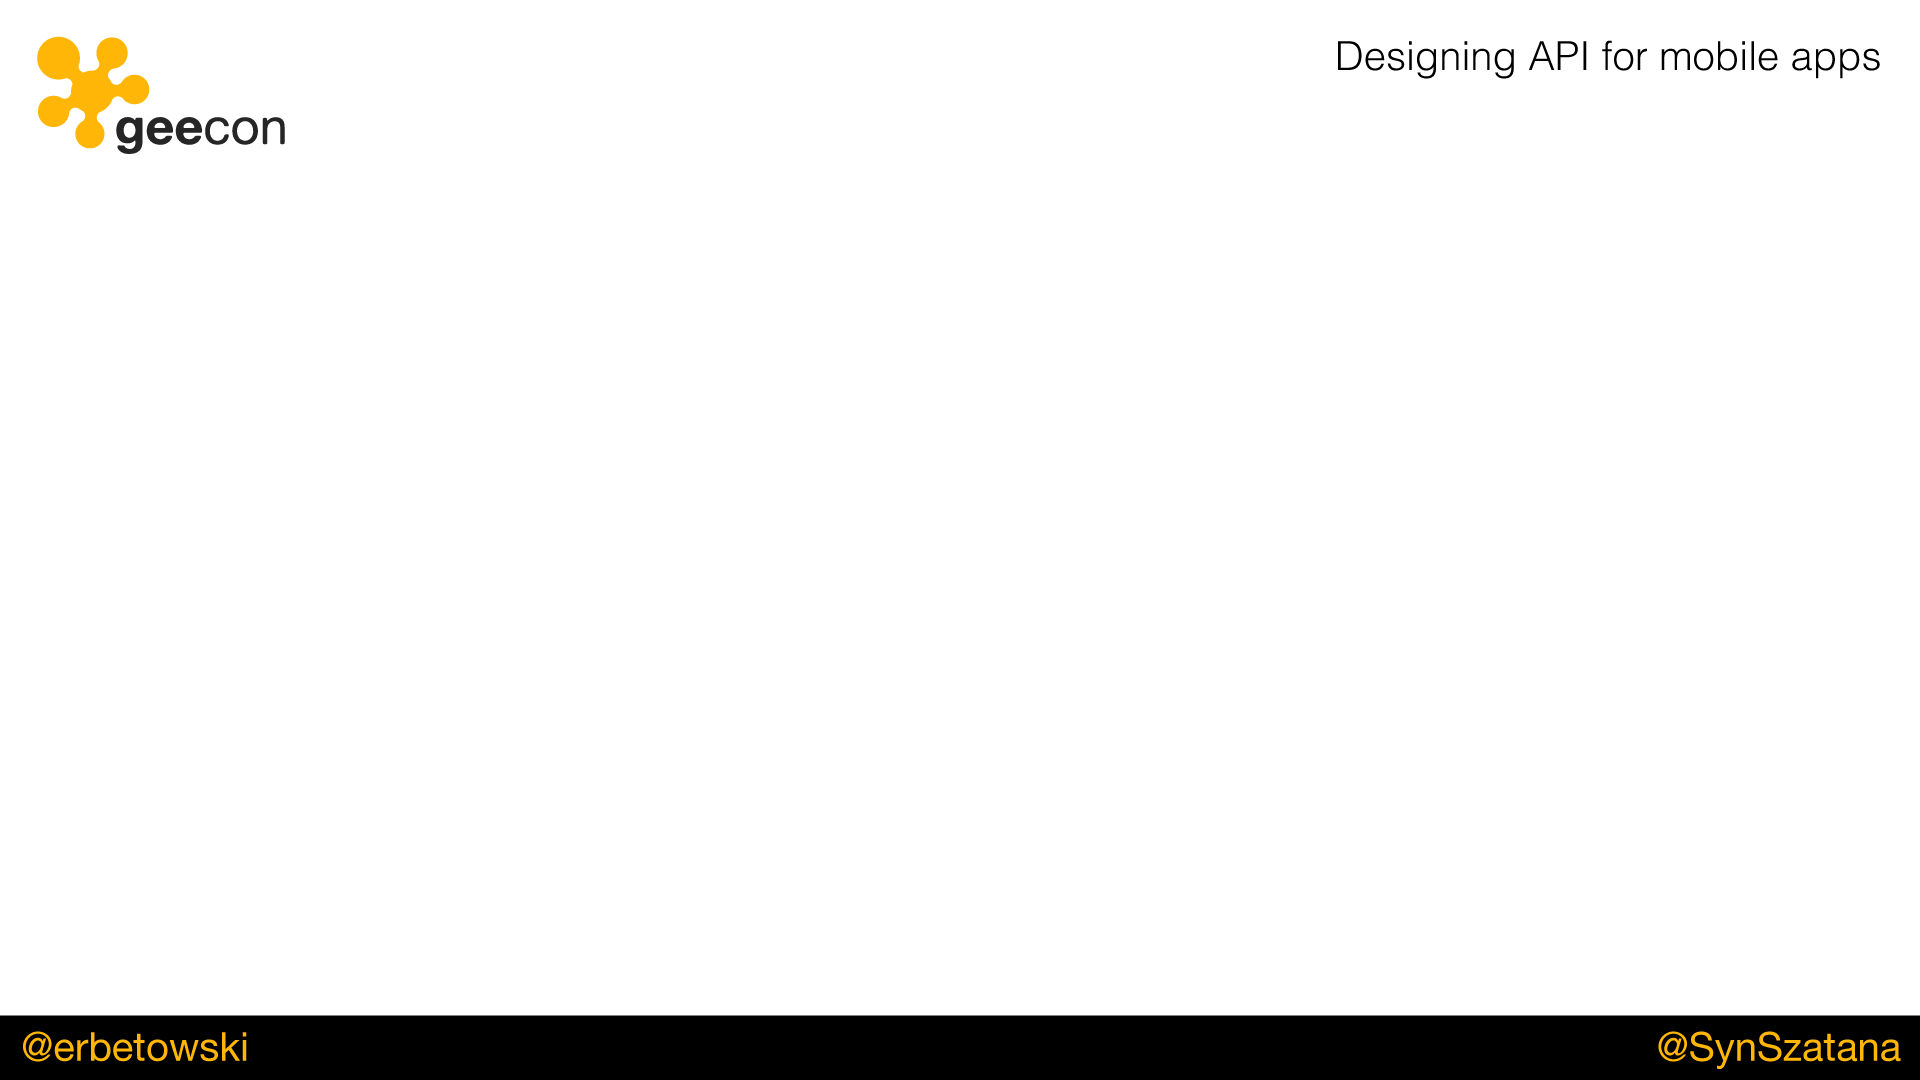
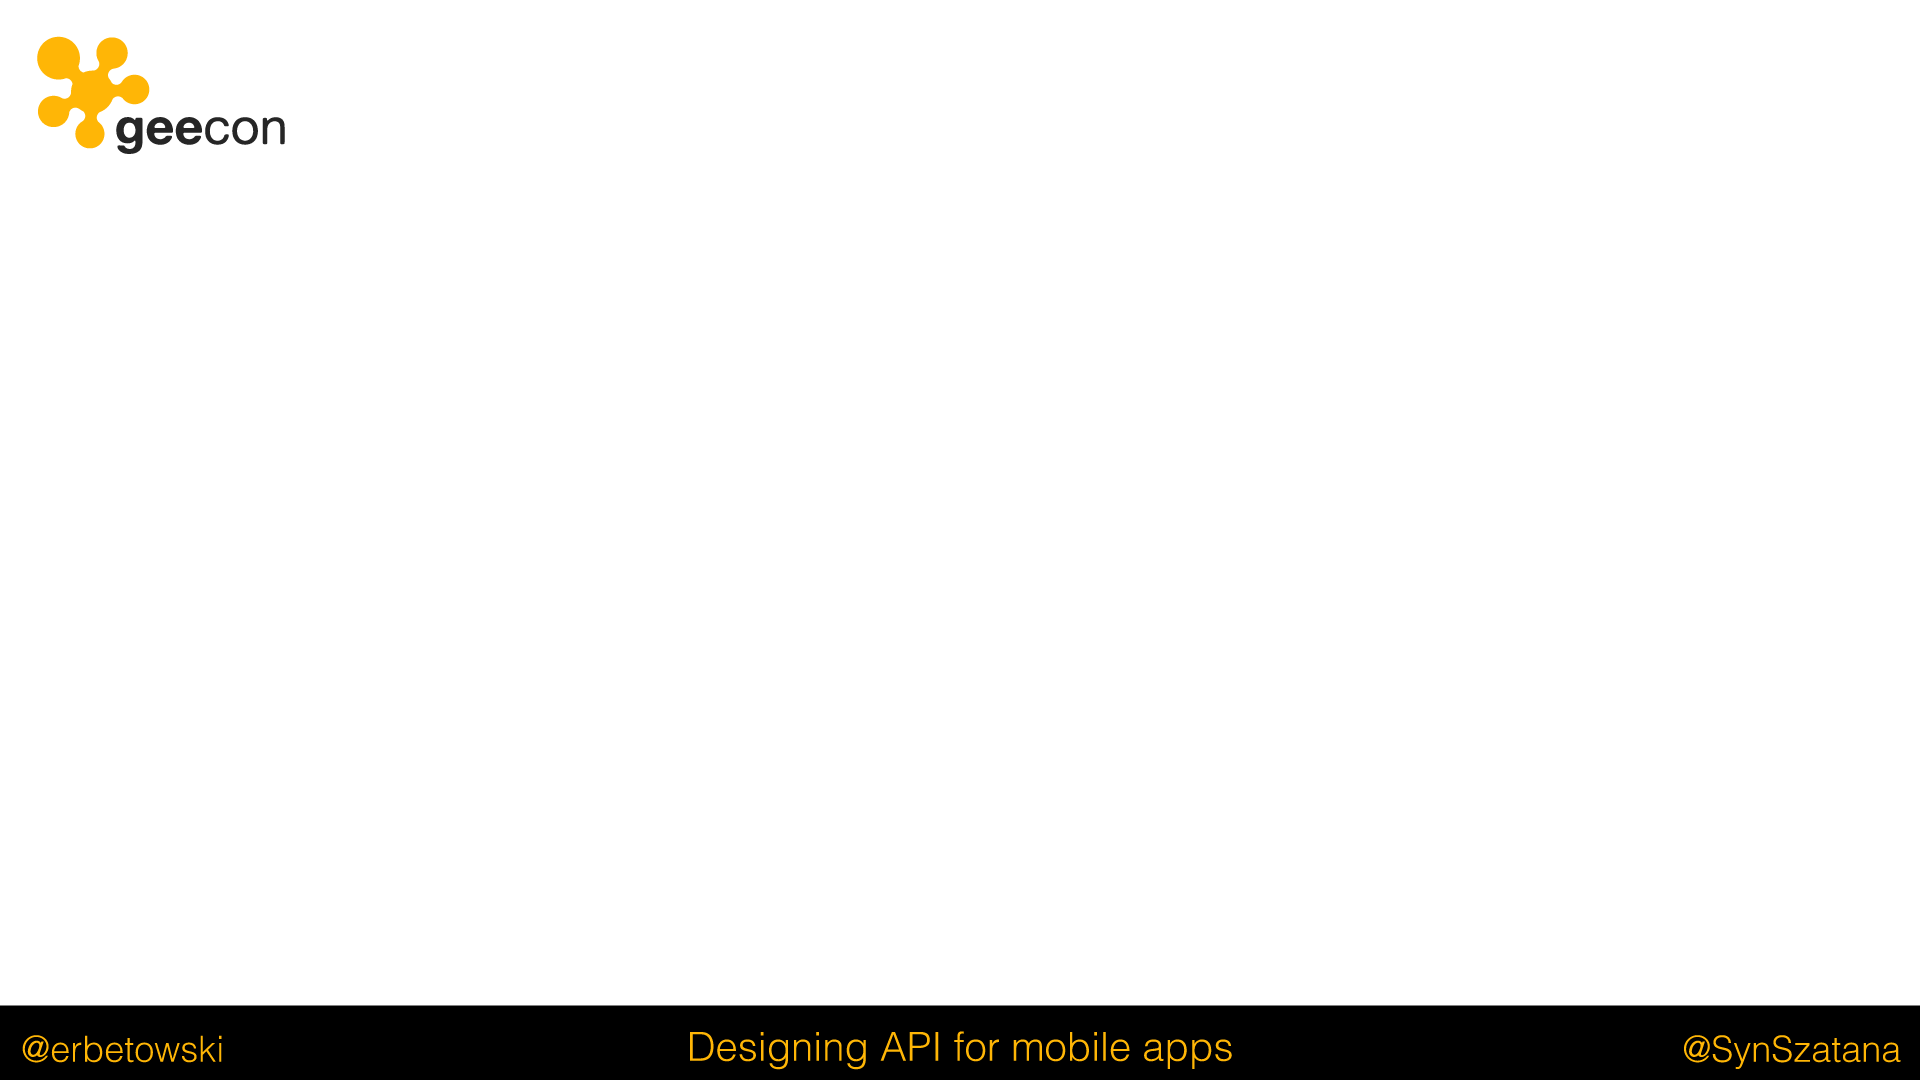
Bg

Changed region(s): [[0.0, 0.9167, 1.0, 1.0], [0.6875, 0.0306, 0.9688, 0.0917]]

diff --git a/index.html b/index.html
@@ -15,8 +15,8 @@
     <meta name="viewport" content="width=device-width, initial-scale=1.0, maximum-scale=1.0, user-scalable=no">
 
     <link rel="stylesheet" href="css/reveal.min.css">
-    <link rel="stylesheet" href="css/main.css">
     <link rel="stylesheet" href="css/theme/beige.css" id="theme">
+    <link rel="stylesheet" href="css/main.css">
 
     <!-- For syntax highlighting -->
     <link rel="stylesheet" href="lib/css/zenburn.css">
@@ -45,7 +45,7 @@
 
 <!-- Any section element inside of this container is displayed as a slide -->
 <div class="slides">
-<section>
+<section data-background="img/GeeCON_bg.png">
     <section>
         <h1>Designing api for mobile apps</h1>
 
@@ -84,7 +84,7 @@
         </aside>
     </section>
 </section>
-<section>
+<section data-background="img/GeeCON_bg.png">
     <section>
         <h1>Welcome</h1>
 
@@ -103,7 +103,7 @@
         <img src="img/ChemistryCatOnDating.jpg">
     </section>
 </section>
-<section>
+<section data-background="img/GeeCON_bg.png">
     <section>
         <h1>Latency</h1>
         TODO na rysunku nie ma wielkości danych
@@ -245,7 +245,7 @@
     </section>
     <section data-background="img/swagger.png"></section>
 </section>
-<section>
+<section data-background="img/GeeCON_bg.png">
     <section>
         <h1>Throughput</h1>
     </section>
@@ -1170,7 +1170,7 @@ GZIP  29553  bytes (96%)
         </div>
     </section>
 </section>
-<section>
+<section data-background="img/GeeCON_bg.png">
     <section>
         <h1>Toolbox</h1>
 
@@ -1408,7 +1408,7 @@ def output = withPool(2) {
         </div>
     </section>
 </section>
-<section>
+<section data-background="img/GeeCON_bg.png">
     <section>
         <h1>Common problems</h1>
     </section>
@@ -1462,7 +1462,7 @@ def output = withPool(2) {
 }</code></pre>
   </section>
 </section>
-<section>
+<section data-background="img/GeeCON_bg.png">
     <section>
         <h1>Case study - utest app</h1>
         <br/>
@@ -1489,7 +1489,7 @@ def output = withPool(2) {
         <img src="img/GeeCON_architecture.png">
     </section>
 </section>
-<section>
+<section data-background="img/GeeCON_bg.png">
     <h2>q&amp;a</h2>
 </section>
 </div>
@@ -1513,7 +1513,7 @@ def output = withPool(2) {
         theme: Reveal.getQueryHash().theme, // available themes are in /css/theme
         transition: Reveal.getQueryHash().transition || 'default', // default/cube/page/concave/zoom/linear/fade/none
 
-        parallaxBackgroundImage: 'img/GeeCON_bg.png',
+//        parallaxBackgroundImage: 'img/GeeCON_bg.png',
 
         // Parallax scrolling
         // parallaxBackgroundImage: 'https://s3.amazonaws.com/hakim-static/reveal-js/reveal-parallax-1.jpg',

diff --git a/css/main.css b/css/main.css
@@ -15,3 +15,8 @@
 .right_compare pre {
     width: 95%;
 }
+
+.reveal section img {
+    border: none;
+    box-shadow: none;
+}
